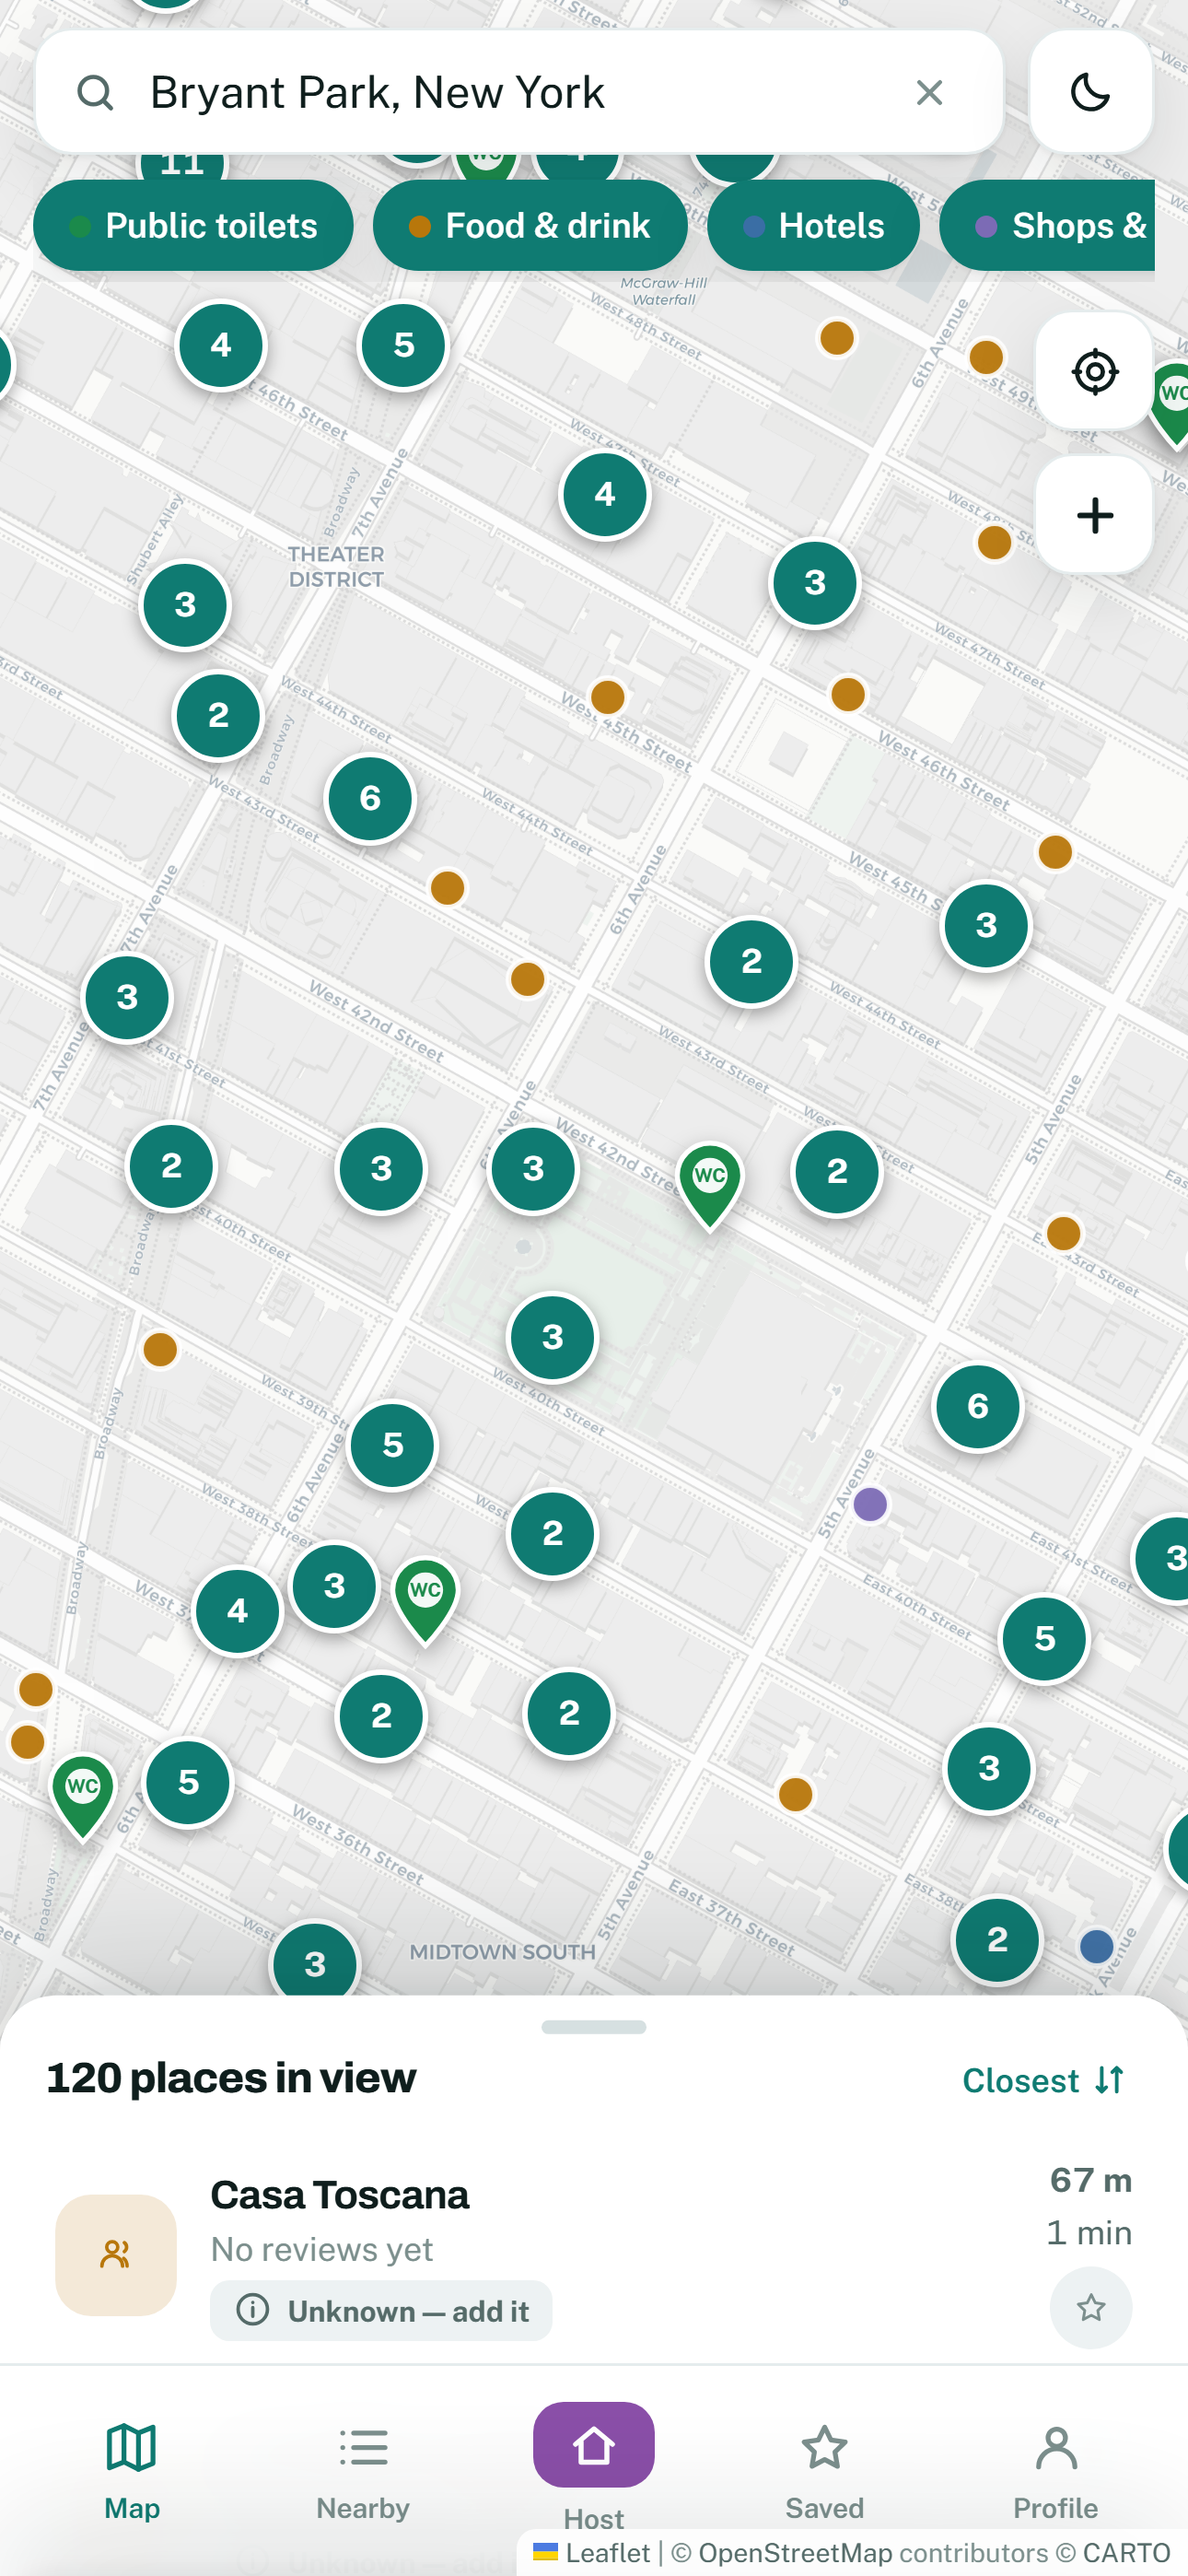
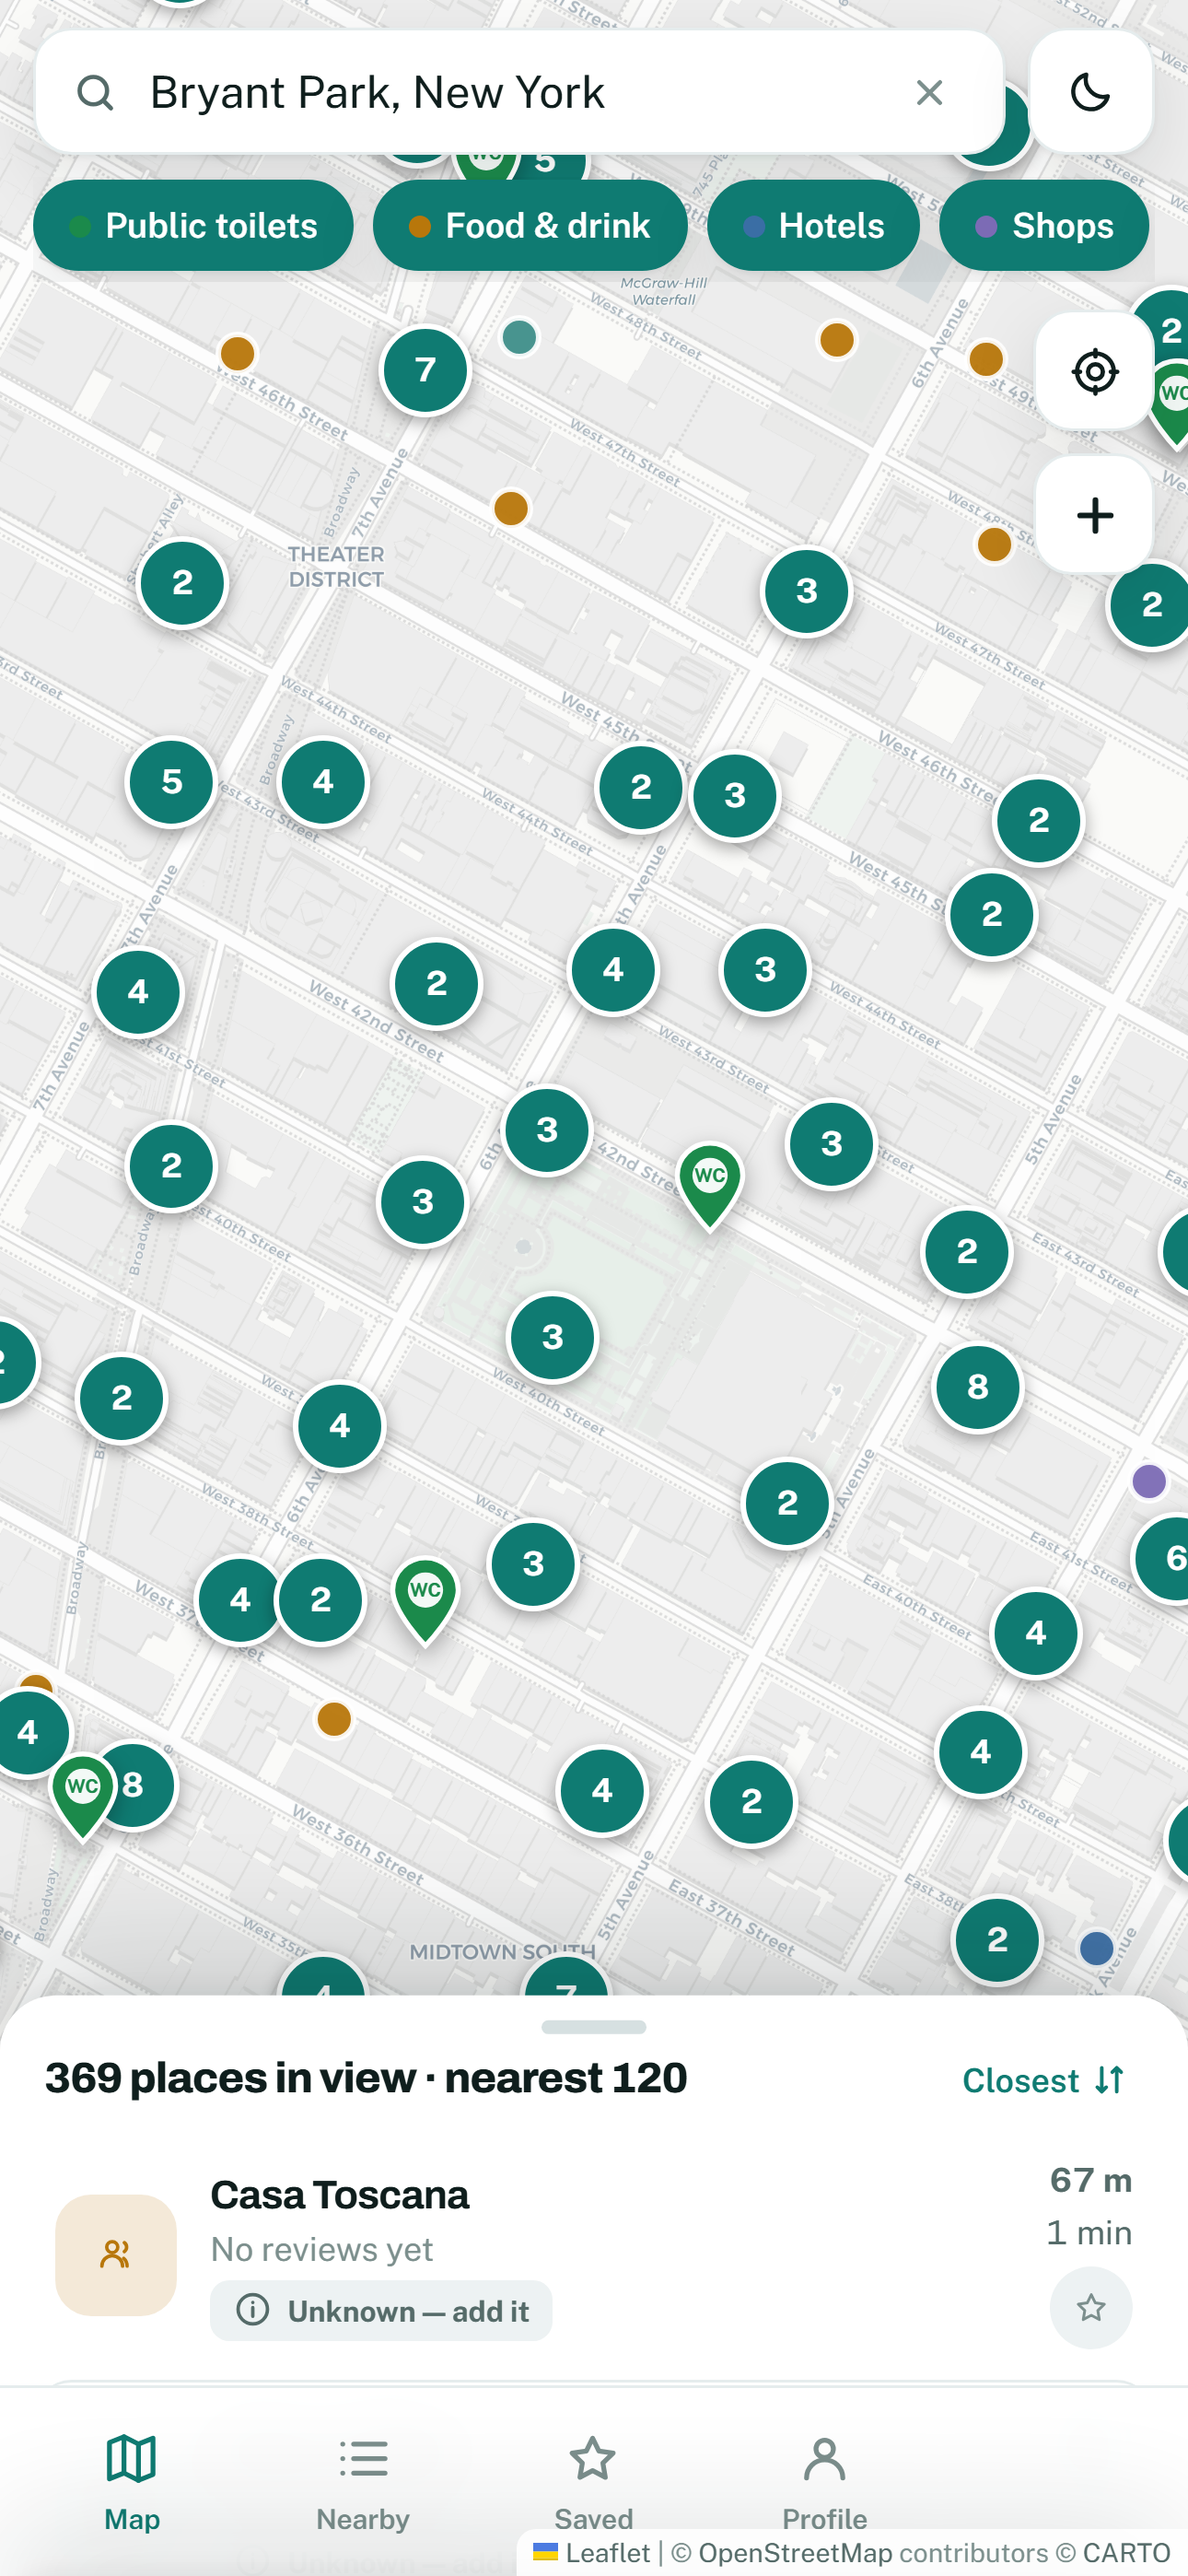
Load the map when you stop moving, instead of asking you to tap
The map loaded the first view and then handed over to a "Search this
area" button. That was the right call when it was written: every pan was
an Overpass query, Overpass throttles hard, and refetching on each move
made the map feel broken.

That constraint no longer holds. The backend caches places by tile, so a
view already seen — or one that merely overlaps it — is a database read
and costs no upstream call at all. Downtown Los Angeles comes back in
1.7s with zero requests to Overpass.

So the map now loads whatever you are looking at, 650ms after you stop
moving. Three things keep it civil: the debounce means a flick across
several blocks is one load rather than twenty, boundsCovered drops any
view already held so panning back and forth asks for nothing, and
loadArea still serialises so a fast pan cannot put two queries in flight.

The button stays, but only appears when an automatic load actually
failed — otherwise it would flash on every pan, in the gap between the
map stopping and the places arriving. Low zoom no longer nags either:
"Zoom in to load bathrooms" now shows only when you asked for a load,
not every time the map settles while you are panning around the world.

Screenshots regenerated against the fixed app. The old ones showed the
Host tab and a purple $2 rental pin, both of which are features this
build no longer has — Apple checks that screenshots match the app. The
capture tool now also hides the toast container, because emptying it was
[…]

diff --git a/app/app.js b/app/app.js
@@ -168,20 +168,35 @@ const ENDPOINTS = ['https://overpass-api.de/api/interpreter',
                    'https://maps.mail.ru/osm/tools/overpass/api/interpreter'];
 let loadTimer = null, loading = false;
 
-/* Auto-load the first view, then hand control to the user with a
-   "Search this area" button. Overpass is a shared free service and
-   refetching on every pan gets you throttled — which is exactly what
-   made the map feel broken during testing.                          */
-let autoLoaded = false;
+/* Load whatever the user is looking at, once they stop moving.
+
+   This was first-view-only, with a "Search this area" button for everything
+   after, because every pan meant another Overpass query and Overpass
+   throttles hard enough to make the map feel broken. That constraint is
+   gone: the backend keeps its own cache of places keyed by tile, so a view
+   already seen — or one merely overlapping it — is a database read costing
+   no upstream call at all.
+
+   Three things keep this from becoming a request per pixel:
+     - the debounce fires once, after movement stops, so a flick across
+       several blocks is one load and not twenty
+     - boundsCovered() drops any view already held, so panning back and
+       forth over the same streets asks for nothing
+     - loadArea serialises on `loading`, so a fast pan cannot put two
+       queries in flight at once                                          */
+const IDLE_MS = 650;
+let loadFailed = false;
 function scheduleLoad(force){
   clearTimeout(loadTimer);
-  if (force || !autoLoaded){ loadTimer = setTimeout(() => loadArea(true), 500); return; }
-  updateSearchHere();
+  loadTimer = setTimeout(() => loadArea(!force), force ? 0 : IDLE_MS);
 }
 function updateSearchHere(){
   const btn = el('search-here');
   if (!btn || !map) return;
-  const need = map.getZoom() >= 13 && !boundsCovered(map.getBounds().pad(0.05));
+  /* Only shown when the automatic load could not do it. Without the
+     loadFailed condition this would flash on every single pan, in the gap
+     between the map stopping and the places arriving. */
+  const need = loadFailed && map.getZoom() >= 13 && !boundsCovered(map.getBounds().pad(0.05));
   btn.hidden = !need || !!state.dropMode;
 }
 function boundsCovered(b){
@@ -189,10 +204,12 @@ function boundsCovered(b){
 }
 async function loadArea(auto){
   if (!map) return;
-  if (map.getZoom() < 13){ status('Zoom in to load bathrooms', 2600); renderList(); return; }
+  /* Only say this when the user actually asked. Auto-load runs every time
+     the map settles, and at world zoom that would put "Zoom in to load
+     bathrooms" on screen constantly while someone is simply panning. */
+  if (map.getZoom() < 13){ if (!auto) status('Zoom in to load bathrooms', 2600); renderList(); return; }
   const b = map.getBounds().pad(0.15);
   if (boundsCovered(b)) { renderList(); updateSearchHere(); return; }
-  autoLoaded = true;
   el('search-here').hidden = true;
   /* A request is already in flight. Don't fire a second one, but don't drop
      this view either — re-check once the current load finishes, or the area
@@ -262,6 +279,7 @@ async function loadArea(auto){
           if (!features.has(p.id)){ features.set(p.id, {...p, source:'osm'}); n2++; }
         }
         cacheFeatures();
+        loadFailed = false;
         renderMarkers(); renderList(); updateSearchHere();
         status(j.stale ? 'Map data is busy — showing the last known map'
                        : n2 ? `${n2} places loaded` : 'No mapped places in view', 2200);
@@ -291,6 +309,10 @@ async function loadArea(auto){
   }
   loading = false;
   if (!data){
+    /* Auto-load could not deliver this view, so give the user something to
+       press. This is the only path that reveals the button now. */
+    loadFailed = true;
+    updateSearchHere();
     const busy = lastErr && /busy|abort/i.test(lastErr.message);
     const haveCached = [...features.values()].some(f => map.getBounds().contains([f.lat, f.lng]));
     status(haveCached ? 'Map data is busy — showing what you loaded before'
@@ -301,6 +323,7 @@ async function loadArea(auto){
     return;
   }
   el('status').style.pointerEvents = 'none';
+  loadFailed = false;
 
   fetched.push(b);
   if (fetched.length > 40) fetched.splice(0, 20);

diff --git a/tools/make-screenshots.js b/tools/make-screenshots.js
@@ -193,12 +193,31 @@ async function main(){
         await sleep(2500);                       // let the last tiles paint
 
         /* The install banner is a browser affordance, not part of the app the
-           store is reviewing, and Apple rejects screenshots containing it. */
+           store is reviewing, and Apple rejects screenshots containing it.
+
+           Toasts go too. "Loading bathrooms nearby..." is a transient status
+           that happened to be on screen when the shutter fell — it sat across
+           the middle of the previous London shot. A store screenshot showing
+           a loading message makes a working app look like it is still
+           thinking. The data is already in by this point; the gate above
+           waited for it. */
         await c.send('Runtime.evaluate', {returnByValue:true, expression: `
           (() => {
             let n = 0;
             document.querySelectorAll('#btn-install, .install-btn, #consent, .consent')
               .forEach(e => { e.remove(); n++; });
+            /* Emptying the container is not enough: the app raises a fresh
+               toast while the map settles, so one reappears in the gap
+               before the shutter. Hide the container for good instead. */
+            if (!document.getElementById('shotcss')){
+              const st = document.createElement('style');
+              st.id = 'shotcss';
+              st.textContent = '#toasts{display:none !important}';
+              document.head.appendChild(st);
+              n++;
+            }
+            const t = document.getElementById('toasts');
+            if (t) t.innerHTML = '';
             return n;
           })()`});
         await sleep(400);
